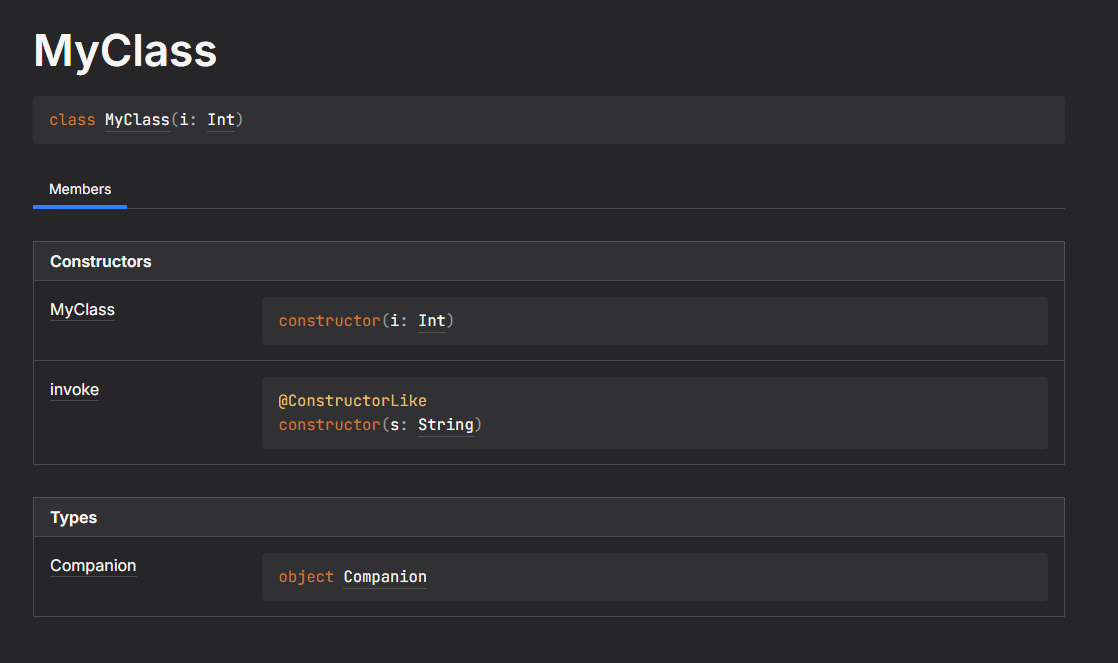
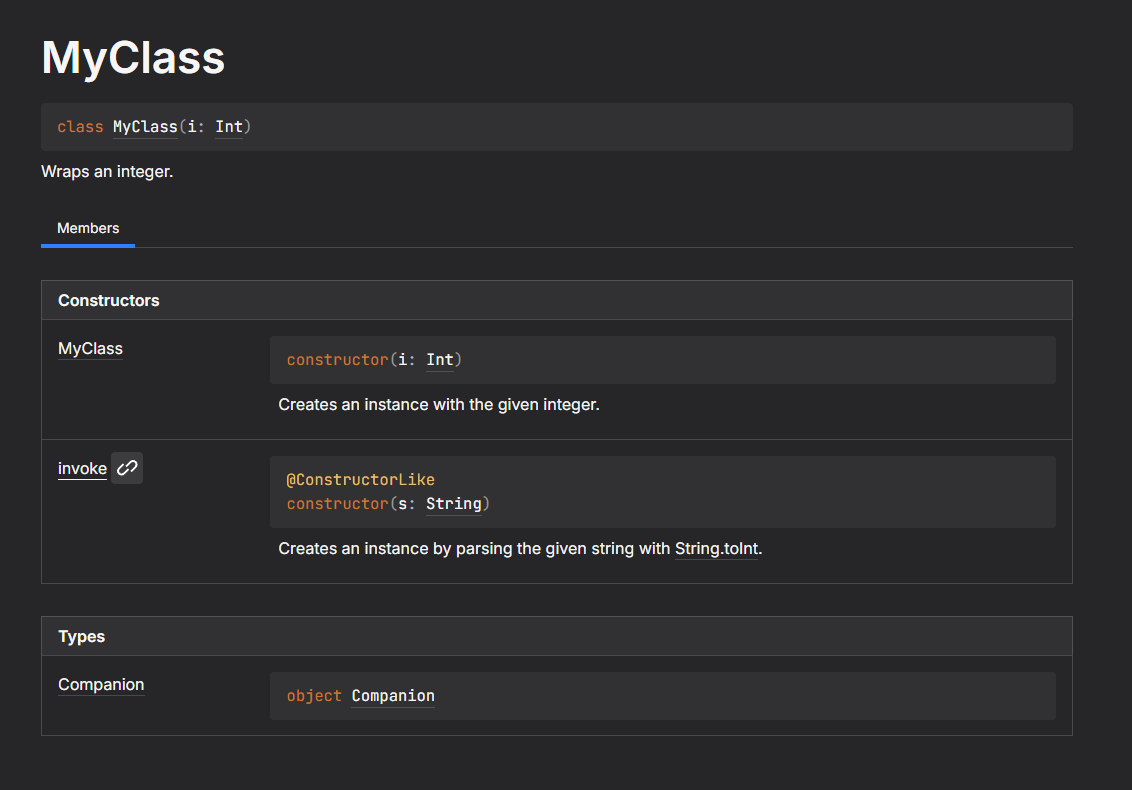
Update readme and example documentation image

diff --git a/README.md b/README.md
@@ -11,7 +11,7 @@ but Kotlin cannot have such feature because we're stuck at this C-style construc
 
 ```kotlin
 class MyClass(val i: Int) { 
-	constructor(s: String): this(s.toInt()) // Might cause `IllegalArgumentException`, but cannot catch it
+	constructor(s: String): this(s.toInt()) // Might cause `IllegalArgumentException`
 }
 ```
 
@@ -30,55 +30,60 @@ fun wrap(i: Int): IntWrapper = object: IntWrapper {
 And sometimes we need a generic constructor:
 
 ```kotlin
-class Logger(val name: String)
+class Logger<T>(val forClass: KClass<T>)
 
-inline fun <reified T> T.createLogger(): Logger = Logger(T::class.qualifiedName)
+inline fun <reified T> T.createLogger(): Logger = Logger(T::class)
 ```
 
 This leads us to using functions that *look like* constructors:
 1. `operator fun invoke` functions in companion objects or an extension to one
 2. Functions with the same name of the class ([`fun Char()`](https://kotlinlang.org/api/core/kotlin-stdlib/kotlin/-char.html))
 
-These are what we call *pseudo-constructors*, since they don't look different with normal constructors: `MyClass(<parameters>)`
+These are what we call *pseudo-constructors*,
+since they don't look different with normal constructors: `MyClass(<parameters>)`
 
-Unfortunately, these are not directly shown in the class documentation, since they are technically not constructors.
-Users cannot notice such functions if they are not explicitly documented at each class,
-and by the nature of people about writing documentations, this is a problem.
-
-This plugin aids this by injecting such elements annotated with `@ConstructorLike` to the `Constructors` table of a class documentation:
+This plugin injects such functions to the `Constructors` table of a class documentation:
 ![example-doc](resources/images/example-doc.png)
 
 Because they are *technically not constructors*, this is purely decorative:
 navigating to such constructor leads to the actual definition of the pseudo-constructor,
 which at the example above is an `operator fun invoke` in a companion object,
-and the function's name is displayed at the first column of the `Constructor` table for when using it as a function reference(`::MyClass`).
+and the function's name is displayed at the first column of the `Constructor` table
+for when using it as a function reference(`::MyClass`).
 
 ### Specification details
+
+**Summary:
+If the function can be used with the same syntax as normal constructors in the class
+and is annotated with `@ConstructorLike`, it is a pseudo-constructor.**
 
 To make a function as a pseudo-constructor, it must be annotated with `@ConstructorLike`.
 Other functions will not be included.
 
 The *target type* of the annotated function is its return type.
-The target type must not be `kotlin.Unit`, `kotlin.Nothing`, an `annotation class`, `enum class`, or `object`,
-and must be in the same module and package with the function so that the plugin can inject the constructor to the documentation.
+The target type must not be `kotlin.Unit`, `kotlin.Nothing`, an `annotation class`, `enum class`, or `object`.
+It must also be in the same module and package with the function
+so that the plugin can inject the constructor to the documentation.
 
 Then, the function must be an `operator fun invoke` or its name must match the target type's simple name.
 
-For ease of parsing, we define a *receiver* for the function to act as a constructor:
+For ease of parsing, we define a *receiver type* of the function:
 for extension functions, it is the receiver itself, and for member functions, it is the classlike owning the function.
-While a function can have no *receiver* in case it is a package-level non-extension non-`operator fun invoke` function,
-it cannot have two *receivers*: the function cannot be an extension member function.
+While a function can have no receiver type in case it is a package-level non-extension non-`operator fun invoke` function,
+it cannot have two receiver types: the function cannot be an extension member function.
 
-Finally, it is validated based on the receiver's kind:
+Finally, it is validated based on the receiver type's kind:
 - `companion object`: the target type must be the parent of the companion if the function is an `operator fun invoke`,
-  otherwise the target type must be a nested class of the parent of the receiver.
+  otherwise the target type must be a nested class of the parent of the receiver type.
   Other functions that do not target the parent classlike will be parsed regarding the companion as an `object`.
 - Plain classlikes: the function must not be an `operator fun invoke`,
-  the target type must be a nested class of the receiver,
-  and if the receiver is not an `object`, the target type must also be `inner`.
-- No receiver: the target type must be a package-level class.
+  the target type must be a nested class of the receiver type,
+  and if the receiver type is not an `object`, the target type must also be `inner`.
+- No receiver type: the function must not be an `operator fun invoke`,
+  and the target type must be a package-level classlike.
 
-If the function violates anything from above, the plugin will raise a warning and will not include the function as a pseudo-constructor.
+If the function violates anything from above,
+the plugin will raise a warning and will not include the function as a pseudo-constructor.
 
 <details>
 <summary>Examples</summary>
@@ -202,8 +207,10 @@ fun MyClass.Companion.NestedInObject(): NestedInObject
 
 </details>
 
-In case of `expect`/`actual` declarations, only the `expect` matters since `actual` declarations must match the signature of `expect`:
-but make sure to annotate `actual` declarations with `@ConstructorLike`, otherwise the behavior of the plugin is undefined.
+In case of `expect`/`actual` declarations,
+only the `expect` matters since `actual` declarations must match the signature of `expect`.
+But make sure to annotate `actual` declarations with `@ConstructorLike` too,
+otherwise the behavior of the plugin is undefined.
 
 # License
 
